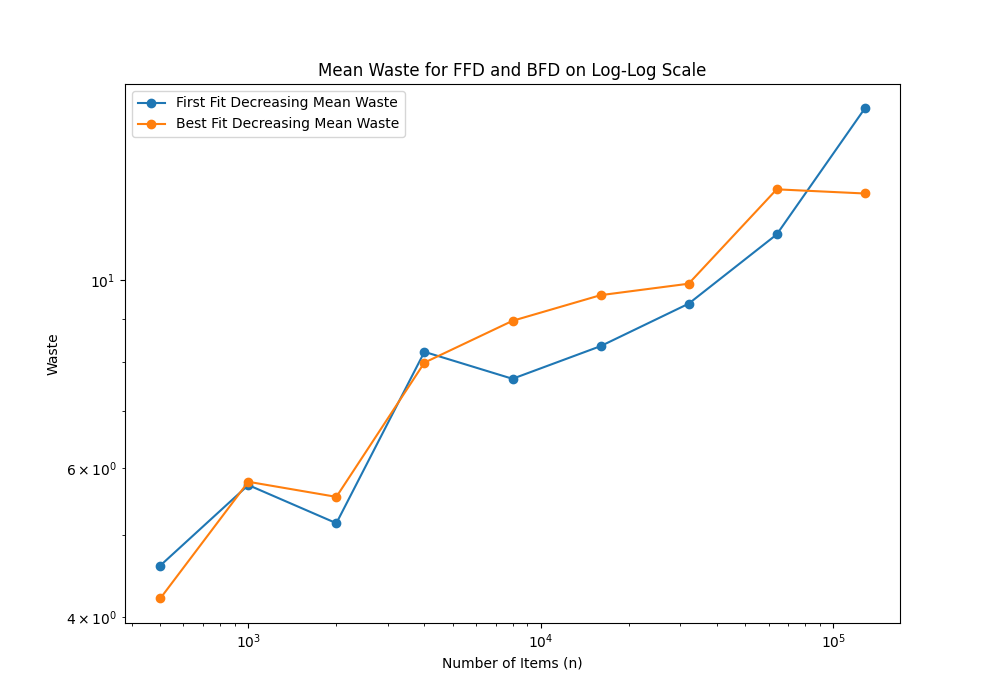
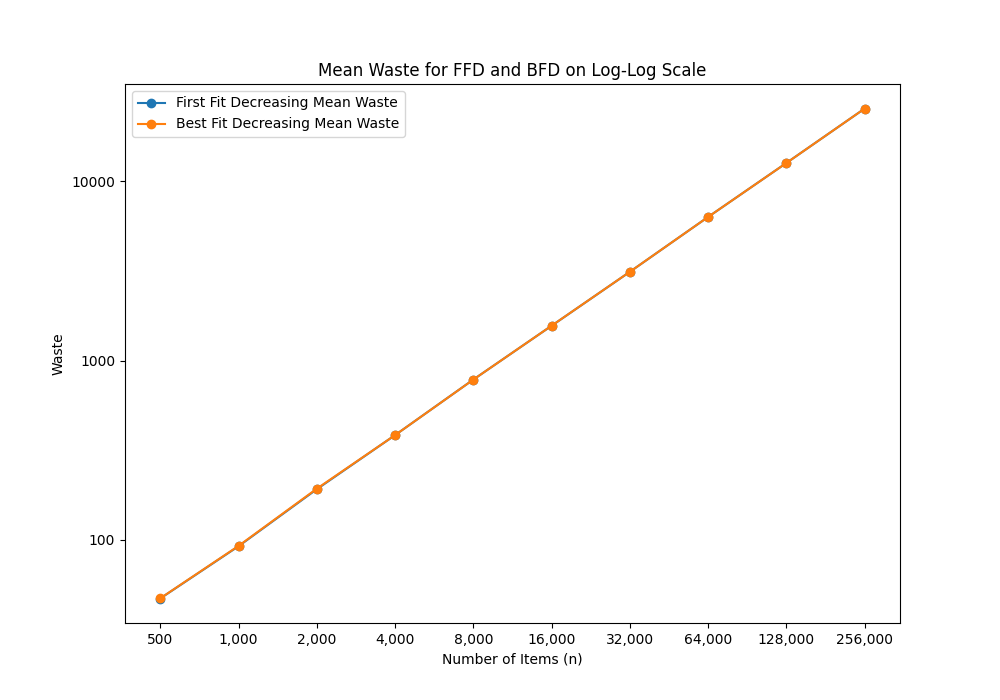
fixed main

diff --git a/main.py b/main.py
@@ -4,7 +4,7 @@ from copy import deepcopy
 import time
 import matplotlib.pyplot as plt
 import numpy as np
-
+from matplotlib.ticker import ScalarFormatter
 import requirements
 from sklearn.metrics import r2_score
 
@@ -51,6 +51,10 @@ def plot_and_save_bin_packing_waste(testN, wastes, algorithm_name):
         color='b'
     )
 
+    plt.gca().yaxis.set_major_formatter(ScalarFormatter(useOffset=False))
+    plt.gca().yaxis.get_major_formatter().set_scientific(False)
+    plt.minorticks_off()
+    plt.xticks(testN, [f"{x:,}" for x in testN])
     plt.xlabel("Number of Items (n)")
     plt.ylabel("Waste")
     plt.title(f"Mean Waste and Best-fit Line for {algorithm_name} on Log-Log Scale")
@@ -79,6 +83,10 @@ def plot_and_save_all_bin_packing_waste(testN, wastes_dict):
         # Plot the actual mean waste data points
         plt.loglog(testN, mean_waste, 'o', label=f"{algorithm_name} Mean Waste", ls = '-')
 
+    plt.gca().yaxis.set_major_formatter(ScalarFormatter(useOffset=False))
+    plt.gca().yaxis.get_major_formatter().set_scientific(False)    
+    plt.minorticks_off()
+    plt.xticks(testN, [f"{x:,}" for x in testN])
     plt.xlabel("Number of Items (n)")
     plt.ylabel("Waste")
     if len(wastes_dict) > 2:
@@ -128,10 +136,8 @@ def main():
     ]
 
     num_algorithms = len(packing_algorithms)  # Number of algorithms being tested
-    num_tests_per_algorithm = 20  # Number of lists to generate per algorithm
-    list_sizes = [500, 1000, 2000, 4000, 8000, 16000, 32000, 64000, 128000]  # Example input sizes to test
-    random_seed = 42  # Seed for reproducibility
-    np.random.seed(random_seed)
+    num_tests_per_algorithm = 5  # Number of lists to generate per algorithm
+    list_sizes = [500, 1000, 2000, 4000, 8000, 16000, 32000, 64000, 128000, 256000]  # Example input sizes to test
     wastes = np.zeros((len(list_sizes), num_algorithms, num_tests_per_algorithm))
     wastes_dict = {name: np.zeros((len(list_sizes), num_tests_per_algorithm)) for name, _ in packing_algorithms}
 
@@ -141,7 +147,7 @@ def main():
             # Loop through each packing algorithm to calculate waste
             for k, (algorithm_name, algorithm_function) in enumerate(packing_algorithms):
                 # Generate a random list of items between 0.0 and 1.0
-                items = np.random.uniform(0.0, 1.0, n)
+                items = np.random.uniform(0.0, 0.4, n)
                 # Dynamically print which function is being tested
                 print(f"Testing {algorithm_name} with input size {n} (Test {j + 1}/{num_tests_per_algorithm})")
 
